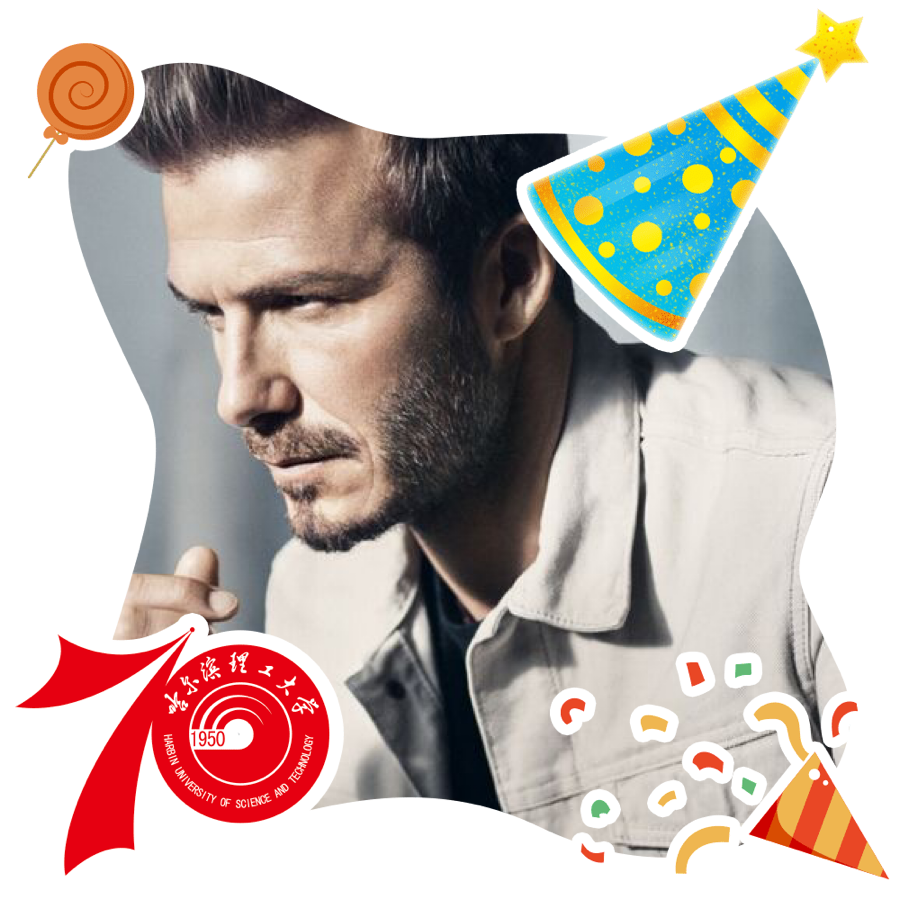
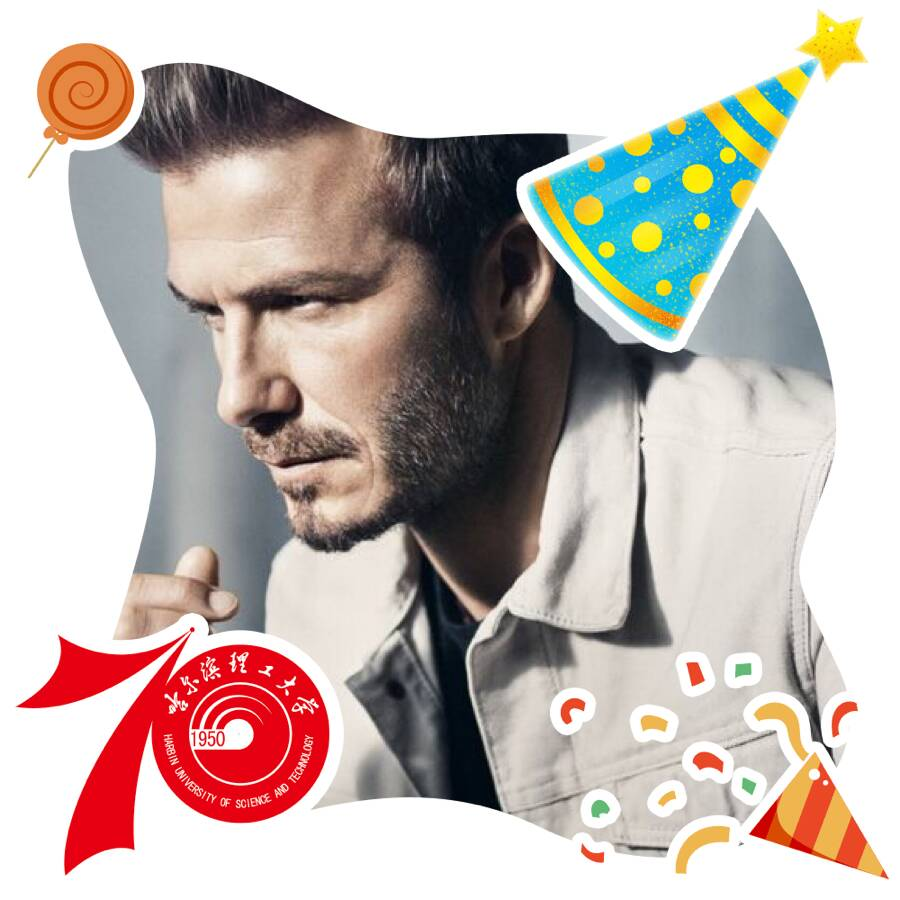
feat: 压缩分享图片，添加可以缩放提示

diff --git a/src/pages3/school-anniversary/index.tsx b/src/pages3/school-anniversary/index.tsx
@@ -1,3 +1,5 @@
+// feat: 哈理工 70 周年校庆官方活动
+
 import React, { Component, Fragment } from 'react'
 import { connect } from 'react-redux'
 import Taro from '@tarojs/taro'
@@ -190,6 +192,7 @@ class SchoolAnniversary extends Component<IProps, PageState> {
           {(step === 1 || step === 2) && <Image src={cropperImage} className="frame" />}
           {(step === 1 || step === 2) && <Image src={require(`./res/avatar-frames/${frameIndex + 1}.png`).default} className="frame" />}
           {step === 0 && <Cropper src={image} onReady={this.onCropperReady} />}
+          {step === 0 && image && <View className="tips">*图片可以缩放、裁剪</View>}
         </View>
         {
           step === 1 && <ScrollView className="frames" scrollX>
@@ -212,8 +215,15 @@ class SchoolAnniversary extends Component<IProps, PageState> {
           }
           <Fragment>
             { step > 0 && <Button onClick={this.prevStep}>上一步</Button>}
-            { step === 0 && <Button onClick={this.clearCanvas}>清空画布</Button>}
-            <Button onClick={this.nextStep} disabled={!image}>{ step === 2 ? '保存图片' : '下一步'}</Button>
+            {/* { step === 0 && image && <Button onClick={this.clearCanvas}>清空画布</Button>} */}
+            <Button
+              onClick={this.nextStep}
+              className={cn({
+                // flex1: step === 0 && !image
+                flex1: step === 0
+              })}
+              disabled={!image}
+            >{ step === 2 ? '保存图片' : '下一步'}</Button>
           </Fragment>
         </View>
         <Canvas

diff --git a/src/pages3/school-anniversary/index.less b/src/pages3/school-anniversary/index.less
@@ -26,6 +26,14 @@
       left: 75rpx;
       z-index: 1;
     }
+
+    .tips {
+      position: absolute;
+      bottom: 0;
+      color: #04b00f;
+      font-size: 20rpx;
+      padding: 10rpx 20rpx;
+    }
   }
 
   .btn-wrapper {
@@ -77,10 +85,10 @@
       box-shadow: 2px 2px 10px 0 rgba(0, 0, 0, .2);
       background: #ededed;
 
-      border: 1px solid transparent;
-
+      border: 2px solid transparent;
+      box-sizing: border-box;
       &.active {
-        border: 1px solid #04b00f;
+        border: 2px solid #04b00f;
       }
     }
   }
@@ -88,6 +96,7 @@
   .combine-canvas {
     position: fixed;
     opacity: 0;
-    left: -9999;
+    left: -9999px;
+    z-index: -1;
   }
 }

diff --git a/src/components/cropper/index.tsx b/src/components/cropper/index.tsx
@@ -55,7 +55,7 @@ export default class Cropper extends Component<Props, State> {
   componentWillReceiveProps(nextProps) {
     if (nextProps.src !== this.props.src) {
       this.cropper.removeImage()
-      this.pushOrign(nextProps.src)
+      nextProps.src && this.pushOrign(nextProps.src)
     }
   }
 
